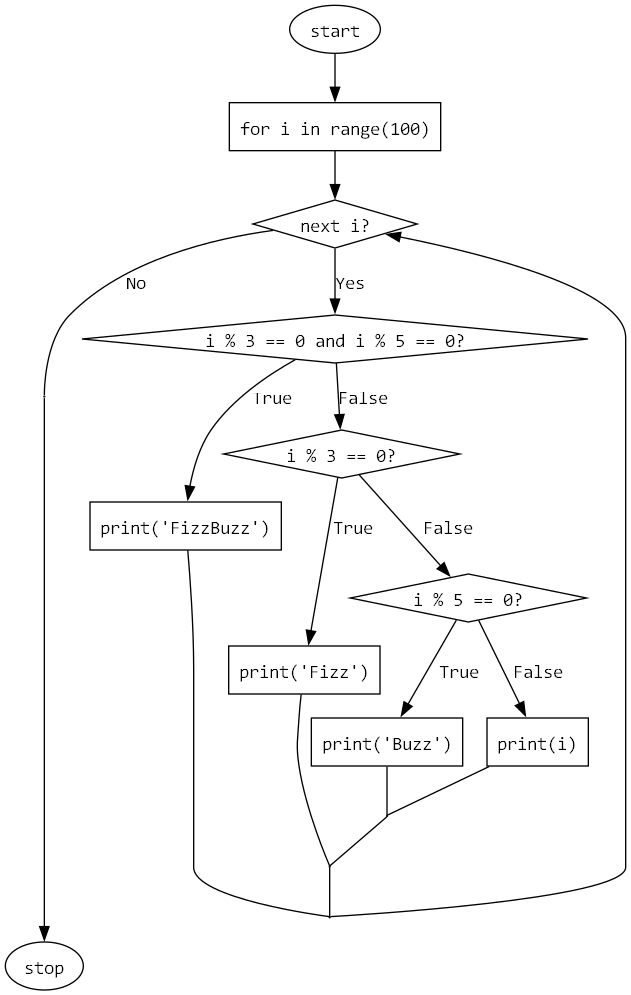
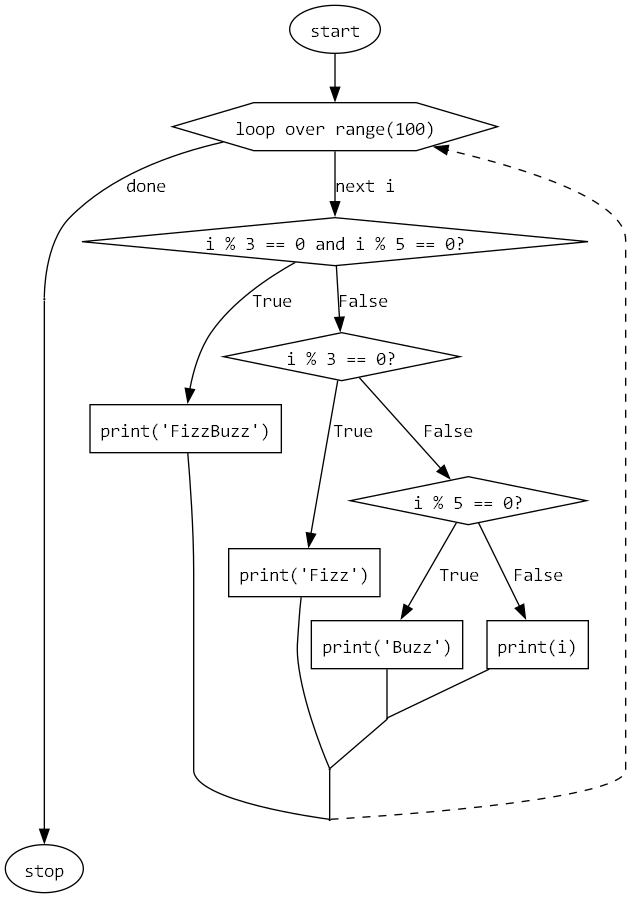
Change representation of for-loop

diff --git a/flowchart.py b/flowchart.py
@@ -48,7 +48,7 @@ def collect_body(maker, body, loop_flow: Flow) -> Flow:
             case ast.Continue():
                 continue_node = maker.create_dummy(name=name)
                 maker.create_edge(head, continue_node, dir="none")
-                maker.create_edge(continue_node, loop_flow.head, label="continue", dir="none")
+                maker.create_edge(continue_node, loop_flow.head, label="continue", style="dashed")
                 return Flow(head or continue_node, None)
             case ast.Return() | ast.Raise():
                 terminal = maker.create_terminal(name=name, label=ast.unparse(ast_object))
@@ -69,26 +69,25 @@ def process_construct(maker, ast_object, loop_flow=None) -> Flow:
     name = f"{type(ast_object).__name__.casefold()}_{ast_object.lineno}"
     match ast_object:
         case ast.For(body=body, target=target_ast, iter=iter_ast, orelse=orelse):
-            head_node = maker.create_action(name=f"{name}_head", label=f"for {ast.unparse(target_ast)} in {ast.unparse(iter_ast)}")
-            next_node = maker.create_decision(name=f"{name}_next", label=f"next {ast.unparse(target_ast)}?")
+            loopvar = ast.unparse(target_ast)
+            head_node = maker.create_loop(name=f"{name}_head", label=f"loop over {ast.unparse(iter_ast)}")
             tail_node = maker.create_dummy(name=f"{name}_tail")
-            maker.create_edge(head_node, next_node)
 
             if body:
                 body_flow = collect_body(maker, body, Flow(head_node, tail_node))
-                maker.create_edge(next_node, body_flow.head, label="Yes")
-                maker.create_edge(body_flow.tail, next_node)
+                maker.create_edge(head_node, body_flow.head, label=f"next {loopvar}")
+                maker.create_edge(body_flow.tail, head_node, style="dashed")
             if orelse:
                 else_flow = collect_body(maker, orelse, loop_flow)
-                maker.create_edge(next_node, else_flow.head, label="No")
+                maker.create_edge(head_node, else_flow.head, label="done")
                 maker.create_edge(else_flow.tail, tail_node, dir="none")
             else:
-                maker.create_edge(next_node, tail_node, label="No", dir="none")
+                maker.create_edge(head_node, tail_node, label="done", dir="none")
 
             return Flow(head_node, tail_node)
 
         case ast.While(test=test_ast, body=body, orelse=orelse):
-            head_node = maker.create_action(name=f"{name}_head", label=ast.unparse(test_ast) + "?")
+            head_node = maker.create_decision(name=f"{name}_head", label=ast.unparse(test_ast) + "?")
             tail_node = maker.create_dummy(name=f"{name}_tail")
 
             if body:
@@ -122,7 +121,7 @@ def process_construct(maker, ast_object, loop_flow=None) -> Flow:
             return Flow(head_node, tail_node)
 
         case ast.Match(subject=subject_ast, cases=cases):
-            head_node = maker.create_decision(name=f"{name}_head", label=ast.unparse(subject_ast))
+            head_node = maker.create_decision(name=f"{name}_head", label=ast.unparse(subject_ast) + "?")
             tail_node = maker.create_dummy(name=f"{name}_tail")
 
             for case_ast in cases:

diff --git a/examples.py b/examples.py
@@ -25,6 +25,20 @@ def fizzbuzz2():
             print(i)
 
 
+def fizzbuzz3():
+    for i in range(100):
+        divisors = [d for d in [3, 5] if i % d == 0]
+        match divisors:
+            case [3]:
+                print("Fizz")
+            case [5]:
+                print("Buzz")
+            case [3, 5]:
+                print("FizzBuzz")
+            case _:
+                print(i)
+
+
 def other_function(lo=0, l=[0, 2, 3, 4]):
     keep_running = True
     while (keep_running):
@@ -75,6 +89,7 @@ def write_junk(lines):
 
 
 graph = to_flowchart(fizzbuzz2)
+# graph = to_flowchart(fizzbuzz3)
 # graph = to_flowchart(other_function)
 # graph = to_flowchart(SieveOfEratosthenes)
 # graph = to_flowchart(write_junk)

diff --git a/helpers.py b/helpers.py
@@ -22,6 +22,10 @@ class FlowGraphBuilder:
     def create_action(self, **kwargs):
         return self.create_node(**kwargs, shape="block")
 
+    def create_loop(self, **kwargs):
+        # In my opinion a loop is both an action (spit out elements) and a decision (decide if continue).
+        return self.create_node(**kwargs, shape="hexagon")
+
     def create_decision(self, **kwargs):
         return self.create_node(**kwargs, shape="diamond")
 

diff --git a/README.md b/README.md
@@ -48,3 +48,7 @@ The result looks like this:
 
 Consider building on plantuml instead of graphviz directly.
 Page 64 of https://pdf.plantuml.net/1.2020.22/PlantUML_Language_Reference_Guide_en.pdf
+
+## Similar projects
+
+- https://github.com/cdfmlr/pyflowchart
